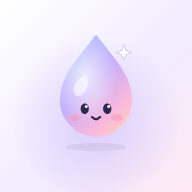
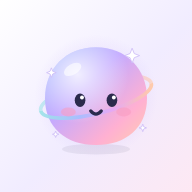
앱 아이콘을 4단계 오로라 구슬 캐릭터로, README 삭제

Changed region(s): [[0.1875, 0.2188, 0.8125, 0.7812], [0.4375, 0.1875, 0.5625, 0.25]]

diff --git a/index.html b/index.html
@@ -980,7 +980,7 @@ const STUDY_KEY = 'freedom-study';
 // 설정 탭의 화면·소리 설정 (이 기기에만 저장). theme: system | light | dark, size: normal | large | xlarge
 const PREFS_KEY = 'freedom-prefs';
 // 앱 버전 (백업 화면에 표시). 올릴 때 sw.js의 CACHE 숫자도 같이 올려 주세요
-const APP_VERSION = 'v100';
+const APP_VERSION = 'v101';
 // Firebase 동기화: Firebase 콘솔 → 프로젝트 설정 → 내 앱(웹)의 값을 넣어 주세요. apiKey가 비어 있으면 동기화 메뉴가 꺼져 있어요
 const FIREBASE = {
   apiKey: 'AIzaSyB-V4tt5C0FmHcRZIONLFt4WBzNmMdCL8E',

diff --git a/sw.js b/sw.js
@@ -1,6 +1,6 @@
 // 앱 파일을 기기에 저장해 오프라인에서도 열리게 합니다.
 // index.html 등을 수정해 다시 올릴 때는 아래 버전 숫자와 index.html의 APP_VERSION을 같이 올려 주세요.
-const CACHE = 'freedom-v100';
+const CACHE = 'freedom-v101';
 const ASSETS = [
   './',
   './index.html',
